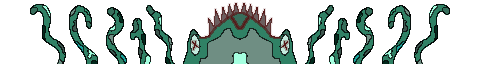
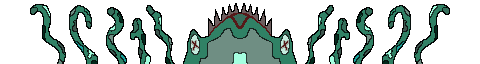
added start/end screen + fixed monster

Changed region(s): [[0.4062, 0.0312, 0.5938, 0.625]]

diff --git a/src/scenes/GameOver.js b/src/scenes/GameOver.js
@@ -3,7 +3,14 @@ class GameOver extends Phaser.Scene {
         super("gameoverScene");
     }
 
+    preload() {
+        this.load.image('end_screen', './assets/Background/EndScreen/game_over.png');
+    }
+
     create() {
+        // loads game over image
+        this.end_screen = this.add.tileSprite(0, 0, 480, 800, 'end_screen').setOrigin(0,0);
+
         let menuConfig = {
             fontFamily: 'Verdana',
             fontSize: '32px',
@@ -39,8 +46,8 @@ class GameOver extends Phaser.Scene {
         highScore = this.formatTime(highScore);
         
         // add highscore and score text
-        this.add.text(game.config.width / 2, game.config.height / 2, `${highScore}`, menuConfig).setOrigin(0.5);
-        this.add.text(game.config.width / 2, game.config.height / 2 + 64, `${score}`, menuConfig).setOrigin(0.5);
+        this.add.text(game.config.width / 2, game.config.height / 2 + 15, `${highScore}`, menuConfig).setOrigin(0.5);
+        this.add.text(game.config.width / 2, game.config.height / 2 - 125, `${score}`, menuConfig).setOrigin(0.5);
 
         // add keybinds
         keySPACE = this.input.keyboard.addKey(Phaser.Input.Keyboard.KeyCodes.SPACE);

diff --git a/src/scenes/Menu.js b/src/scenes/Menu.js
@@ -7,9 +7,13 @@ class Menu extends Phaser.Scene {
         this.load.audio("sfx_select", "./assets/sfx/select.wav");
         this.load.audio("sfx_hit", "./assets/sfx/waves.wav");
         this.load.audio("sfx_death", "./assets/sfx/death.wav");
+        this.load.image('menu', './assets/Background/StartScreen/game_start.png');
     }
 
     create() {
+        // loads menu image
+        this.menu = this.add.tileSprite(0, 0, 480, 800, 'menu').setOrigin(0,0);
+
         // create keybinds
         keySPACE = this.input.keyboard.addKey(Phaser.Input.Keyboard.KeyCodes.SPACE);
         keyC = this.input.keyboard.addKey(Phaser.Input.Keyboard.KeyCodes.C);
